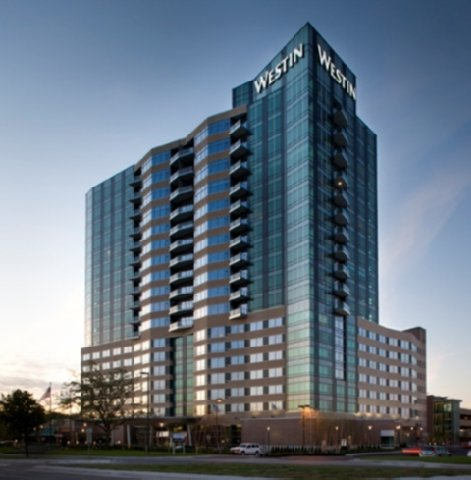
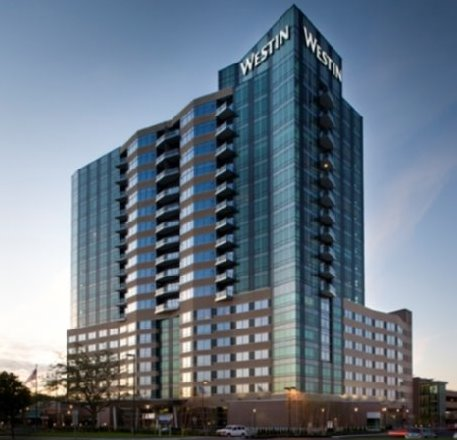
fancy styles

diff --git a/views/stylesheets/site.css.sass b/views/stylesheets/site.css.sass
@@ -22,6 +22,9 @@ body
 a
   +link-colors($link-color, $link-hover-color, $link-focus-color, $link-active-color, $link-visited-color)
 
+img
+  +box-shadow(1px 1px 5px #999)
+  
 body ul
   +no-bullets
   padding: 0
@@ -44,6 +47,7 @@ ul.links
 header
   +column(12, true)  
   position: relative
+  margin-bottom: 2em
   img
     width: 950px
     margin-top: -410px
@@ -53,14 +57,16 @@ header
     left: 1.5em
     bottom: 2.5em
     color: #111
+    +text-shadow(0px 2px 3px #555)
   time
     display: block
     position: absolute
-    bottom: 1em
+    bottom: .5em
     right: .5em
     font-size: 2.3em
     color: #111    
-
+    +text-shadow(0px 2px 3px #555)
+    
 section
   padding-bottom: 40px
 
@@ -76,11 +82,12 @@ section
 section.places
   +column(7)
   // border: 1px dashed gray
-  height: 500px
+  // height: 500px
   
   .links li
-    padding: 10px
-    border: 1px solid black
+    padding: 4px 10px
+    +border-radius(5px)
+    // border: 1px solid black
     font-size: 115%
     a
       text-decoration: none
@@ -103,27 +110,39 @@ section.places
 // == People ==
 section.people
   +column(5, true)
+  padding: 1px
   // border: 1px dashed gray
-  height: 400px
+
   
   .links li
     +column(1)
     width: 60px
-  .links li.last
-    +column(1, true)
+    height: 90px
+    margin-bottom: 1em
+      
+    &.last
+      +column(1, true)
+    &.active
+      outline: 1px solid red
+
+    
+  h3 em
+    color: #444
+    font-style: normal
     
     
 // == Registered ==
 section.registered
-  clear: both
+  +column(7)
   
   img
     width: $blueprint-grid-width
-    margin-right: $blueprint-grid-margin
+    margin-right: 6px
+    +box-shadow(none)
 
   .crate
     position: relative
-    top: 25px
+    top: 1px
   .macys
     position: relative
     top: 3px

diff --git a/public/javascripts/app.js b/public/javascripts/app.js
@@ -4,26 +4,24 @@ $(function () {
   
 
   function changeTab (e) {
+    var el, id, container, now, old
     e.preventDefault()
-    // var el, id, container, current, content
 
+    // Get reference to content to show
     el = $(e.currentTarget)
     id = el.find('a').attr('href')
     
-    // Update link
+    // Update link state
     el.siblings('.active').removeClass('active').end().addClass('active')
     
-    // Update Content
+    // Update Content visibility
     container = el.closest('section')
-    old = container.find('.content .active')
     now = container.find(id)
+    old = now.siblings(':visible')
     
-    old.fadeOut(function () { 
-      old.removeClass('active')
-      now.fadeIn(function () { now.addClass('active') })
+    old.fadeOut(function () {
+      now.fadeIn()
     })
-    
-    console.log(ee = el, old, now)
   }
   
 })
